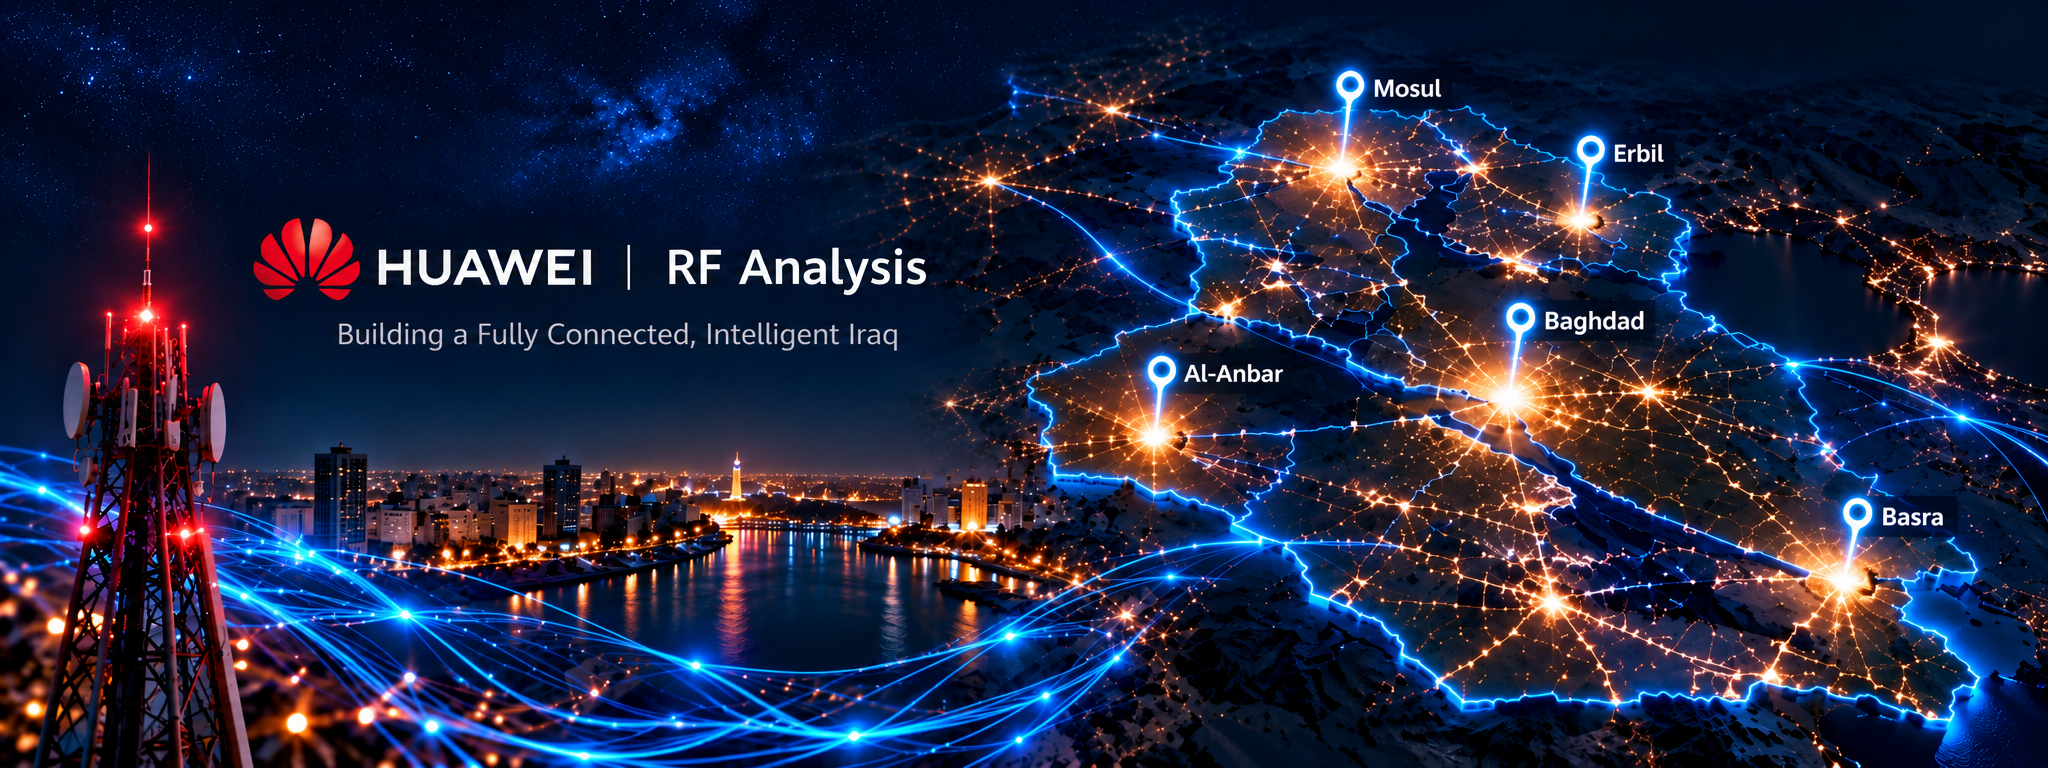
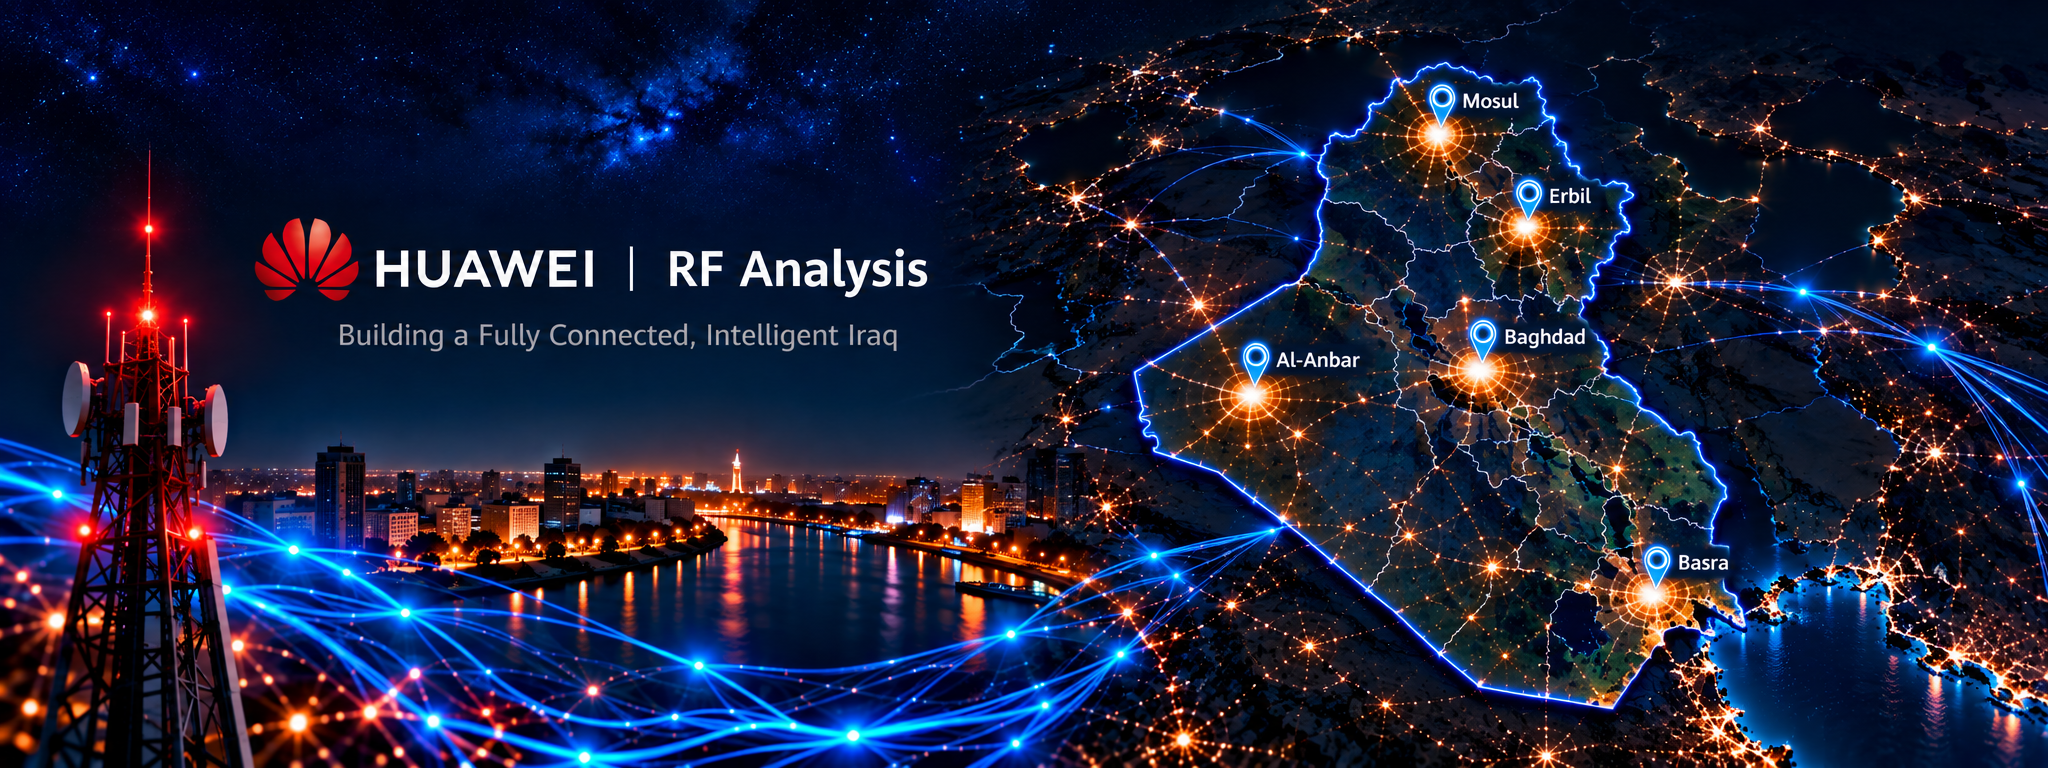
Startup background: the approved Iraq telecom picture, overlays on its cities
Claude-Session: https://claude.ai/code/session_01HyJWzbNktJ7oNiTAd1pBso

diff --git a/app/_startup.py b/app/_startup.py
@@ -62,10 +62,10 @@ _VW, _VH = round(1000 * _ASPECT), 1000     # the network layer's own units
 # the background's own coordinates, per cent of its width / height
 TOWER_LIGHTS = [(7.2, 29.8, 0.0), (7.14, 41.66, 0.6), (4.31, 69.19, 1.1), (9.15, 69.96, 1.7)]
 CITIES = {                              # the lit city nodes under the map pins
-    "baghdad": (73.72, 51.66), "basra": (90.02, 75.56), "mosul": (65.5, 21.76),
-    "erbil": (77.18, 28.65), "anbar": (56.39, 56.23),
+    "baghdad": (72.21, 48.35), "basra": (80.55, 77.55), "mosul": (70.19, 17.46),
+    "erbil": (74.48, 29.42), "anbar": (61.13, 51.6),
 }
-NODES = {"east": (80.44, 51.05), "south": (75.77, 78.0), "west": (47.2, 22.8),
+NODES = {"east": (79.37, 57.33), "south": (72.71, 73.73), "west": (55.27, 29.28),
          "tower": (7.14, 41.66)}
 # the network links the data streams run along (from, to, bend in % of width)
 LINKS = [("anbar", "baghdad", -3), ("baghdad", "mosul", 3), ("mosul", "erbil", -3),
@@ -173,10 +173,10 @@ CSS = """
 /* the map, dark until it is revealed from Baghdad outward */
 #rf-startup .rfs-veil { position: absolute; left: 46%; top: 0; width: 54%; height: 100%;
   background: rgba(3, 9, 22, .9); --rfs-r: 0%;
-  -webkit-mask-image: radial-gradient(circle at 51% 52%, transparent var(--rfs-r), #000 calc(var(--rfs-r) + 16%)),
+  -webkit-mask-image: radial-gradient(circle at 48.5% 48.4%, transparent var(--rfs-r), #000 calc(var(--rfs-r) + 16%)),
                       linear-gradient(to right, transparent, #000 14%);
   -webkit-mask-composite: source-in;
-  mask-image: radial-gradient(circle at 51% 52%, transparent var(--rfs-r), #000 calc(var(--rfs-r) + 16%)),
+  mask-image: radial-gradient(circle at 48.5% 48.4%, transparent var(--rfs-r), #000 calc(var(--rfs-r) + 16%)),
               linear-gradient(to right, transparent, #000 14%);
   mask-composite: intersect; transition: --rfs-r 2s cubic-bezier(.45, .05, .3, 1); }
 #rf-startup.s2 .rfs-veil { --rfs-r: 125%; }
